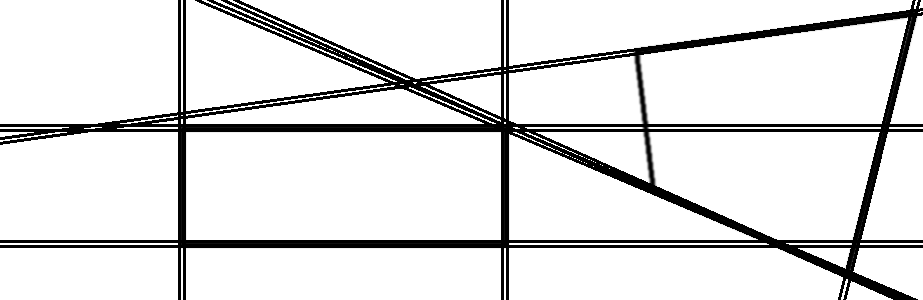
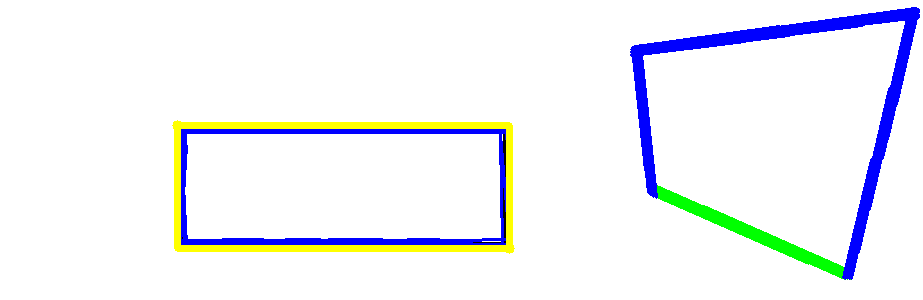
konsol2 ufak

Changed region(s): [[0.0, 0.0, 1.0, 1.0]]

diff --git a/Konsol2/src/main.py b/Konsol2/src/main.py
@@ -4,6 +4,7 @@ import numpy as np
 from functions.filter_1_check_horizontal_thresholds import filter_1_check_horizontal_thresholds
 from functions.filter_2_check_vertical_thresholds import filter_2_check_vertical_thresholds
 from functions.filter_3_check_can_be_rectangle import filter_3_check_can_be_rectangle
+from functions.filter_4_check_length_ratios import filter_4_check_length_ratios
 from functions.draw_rectangle import draw_rectangle
 
 
@@ -104,7 +105,7 @@ def process_images_in_directory(directory_path, output_directory):
                 print(f"Hata oluştu: {e}")
                 continue  # Hata durumunda devam et
 
-input_path = "C:\\Users\\tkaan\\Documents\\GitHub\\Python-Programming-Lecture-Project\\Konsol2\\input\\input_tam\\"
-output_path = "C:\\Users\\tkaan\\Documents\\GitHub\\Python-Programming-Lecture-Project\\Konsol2\\output\\output_tam\\"
+input_path = r"C:\Users\talha\OneDrive\Masaüstü\Python-Programming-Lecture-Project\Konsol2\input"
+output_path = r"C:\Users\talha\OneDrive\Masaüstü\Python-Programming-Lecture-Project\Konsol2\output"
 
 process_images_in_directory(input_path, output_path)

diff --git a/Konsol2/src/functions/filter_4_check_length_ratios.py b/Konsol2/src/functions/filter_4_check_length_ratios.py
@@ -1,0 +1,23 @@
+import numpy as np
+
+def filter_4_check_length_ratios(edges, ratio_threshold=0.8):
+    filtered_edges = []
+
+    for edge in edges:
+        x1, y1, x2, y2 = edge
+
+        # Calculate the length of the edge
+        length = np.sqrt((x2 - x1)**2 + (y2 - y1)**2)
+
+        # Check if the length ratio is below the threshold
+        if length_ratio_check(length, ratio_threshold):
+            filtered_edges.append(edge)
+
+    return np.array(filtered_edges)
+
+def length_ratio_check(length, threshold):
+    # You can customize the length ratio condition as needed
+    # For example, if you want to filter edges longer than twice the average length
+    # you can use the condition length > 2 * average_length
+    if length > threshold:
+        return True

diff --git a/Konsol2/src/functions/filter_1_check_horizontal_thresholds.py b/Konsol2/src/functions/filter_1_check_horizontal_thresholds.py
@@ -1,6 +1,6 @@
 import numpy as np
 
-def filter_1_check_horizontal_thresholds(edges, angle_threshold=10):
+def filter_1_check_horizontal_thresholds(edges, angle_thresholdDOWN = -10, angle_thresholdUP = 10):
     filtered_edges = []
 
     for edge in edges:
@@ -9,7 +9,7 @@ def filter_1_check_horizontal_thresholds(edges, angle_threshold=10):
         angle = np.arctan([np.abs(x1 - x2)/(np.abs(y1 - y2)+5)])[0] * 180 / np.pi
 
         # Eğim aralığı kontrolü
-        if abs(angle - 90)  < angle_threshold:
+        if  angle_thresholdDOWN < abs(angle - 90) < angle_thresholdUP:
             filtered_edges.append(edge)
 
     return np.array(filtered_edges)

diff --git a/Konsol2/src/functions/filter_2_check_vertical_thresholds.py b/Konsol2/src/functions/filter_2_check_vertical_thresholds.py
@@ -1,6 +1,6 @@
 import numpy as np
 
-def filter_2_check_vertical_thresholds(edges, angle_threshold=10):
+def filter_2_check_vertical_thresholds(edges, angle_thresholdDOWN = -10, angle_thresholdUP = 40):
     filtered_edges = []
 
     for edge in edges:
@@ -9,7 +9,7 @@ def filter_2_check_vertical_thresholds(edges, angle_threshold=10):
         angle = np.arctan([np.abs(x1 - x2)/(np.abs(y1 - y2)+5)])[0] * 180 / np.pi
 
         # Eğim aralığı kontrolü
-        if abs(angle) < angle_threshold:
+        if angle_thresholdDOWN < abs(angle) < angle_thresholdUP:
             filtered_edges.append(edge)
 
     return np.array(filtered_edges)
